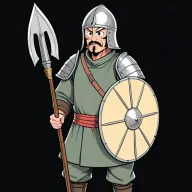
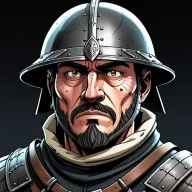
Version 0.1314.0 (portrait du milicien en buste, comme les champions)
Le milicien était dessiné en pied, lance à la main : le cadrage ouvre
désormais le prompt et le sujet ne cite plus d'arme. Trois candidats tirés
(option --seed), graine 0 retenue.

diff --git a/CLAUDE.md b/CLAUDE.md
@@ -1475,7 +1475,7 @@ Décisions prises en Phase 0, contraintes par le poste. À respecter dans les ph
   - **La ligne est masquée quand elle répète le nom**, plutôt que supprimée : un aventurier **legacy** y lit toujours sa classe, et c'est la seule identité qu'il ait. Vérifié au banc — champion : « Orsène le Baumier | Commun » ; legacy : « Léa | Commun | Guerrier ».
   - ⚠ **LE FIXTURE DU HARNAIS N'EST PAS REPRÉSENTATIF** : il nomme son champion « Orsène » quand le champion s'appelle « Orsène le Baumier », donc les deux diffèrent et le doublon ne s'y voit pas. En production `grantChampion` pose `name: champ.name` — ils sont toujours égaux. Un banc avec le vrai nom a servi à le vérifier, puis a été supprimé.
   - **🖼 LA TUILE DE SÉLECTION D'ESCORTE PREND LE PORTRAIT** : c'était le dernier écran où un champion restait un emoji (le tirage, la Guilde et le Codex l'affichaient déjà). Repli inchangé pour un legacy, qui n'en a pas.
-- **🔮🏆🛡 UNE ILLUSTRATION PAR POUVOIR DE RELIQUE ET DE TROPHÉE, ET LE PORTRAIT DU MILICIEN (v0.1305 ; demandé par l'utilisateur : « un par type de relique et de trophée », puis « aussi le milicien »)**. Le TYPE d'une relique ou d'un trophée est son pouvoir (`Item.power`) : **12 reliques + 8 trophées**, `src/data/powerArt.ts` (`RELIC_ART`/`TROPHY_ART`, `Record<…Id, string>` donc exhaustif par construction ; `powerArt(slot, power)` lit la table de SON emplacement — une relique ne prend jamais l'image d'un trophée). Affichées dans la tuile d'objet (`ItemIcon`, repli sur l'icône MDI si l'image ne charge pas) : le LISERÉ garde la couleur du rang, l'image dit le pouvoir. Le **milicien** (anonyme, une seule image) : `src/data/militiaArt.ts` + `MilitiaPortrait.vue` (repli 🛡), sur la ligne des disponibilités, le panneau des voyages et la garnison d'un point ; boutons et messages gardent l'emoji.
+- **🔮🏆🛡 UNE ILLUSTRATION PAR POUVOIR DE RELIQUE ET DE TROPHÉE, ET LE PORTRAIT DU MILICIEN (v0.1305 ; demandé par l'utilisateur : « un par type de relique et de trophée », puis « aussi le milicien »)**. Le TYPE d'une relique ou d'un trophée est son pouvoir (`Item.power`) : **12 reliques + 8 trophées**, `src/data/powerArt.ts` (`RELIC_ART`/`TROPHY_ART`, `Record<…Id, string>` donc exhaustif par construction ; `powerArt(slot, power)` lit la table de SON emplacement — une relique ne prend jamais l'image d'un trophée). Affichées dans la tuile d'objet (`ItemIcon`, repli sur l'icône MDI si l'image ne charge pas) : le LISERÉ garde la couleur du rang, l'image dit le pouvoir. Le **milicien** (anonyme, une seule image, **en buste serré comme les champions** depuis v0.1314.0 — en pied au premier jet, la lance tenue appelait le corps entier ; le cadrage ouvre désormais le prompt et le sujet ne cite plus d’arme) : `src/data/militiaArt.ts` + `MilitiaPortrait.vue` (repli 🛡), sur la ligne des disponibilités, le panneau des voyages et la garnison d'un point ; boutons et messages gardent l'emoji.
   - **Génération** : `node scripts/fetch-power-art.mjs --horde [--parallel=1] [--only=…]` → `public/powers/` et `public/militia/` (WebP 192 px, **~5 Ko pièce, 156 Ko au total**). Client partagé `scripts/lib/pollinations.mjs` (Pollinations à clé + repli **Stable Horde**). ⚠ La dotation gratuite Pollinations est à zéro depuis le 21/09 : tout a été fait sur Stable Horde (Juggernaut XL). ⚠ **FOND SOMBRE, PAS DE DÉTOURAGE** : Horde ignore le fond blanc demandé (dégradés gris/violets), le détourage échouait — même format que les pièces de champion. ⚠ Horde coupe souvent : le téléchargement et chaque requête ont un délai de garde et des nouveaux essais (sans eux, une coupure arrêtait le lot, ou le bloquait 8 h). `fetch-monster-art.mjs` garde sa propre copie du client (avec détourage).
 - **🐉 LES ENNEMIS ONT DES ILLUSTRATIONS EN PIED (v0.1006 ; demandé par l'utilisateur : « vu qu'on a des portraits et des items, je voudrais que les ennemis aient des illustrations aussi… où on les voit en entier »)**. Étape 1 sur 3 : les **48 ennemis de donjon et boss de palier** (17 monstres écrits, 12 skins procéduraux, 4 boss écrits — l'Archidémon partage l'image du monstre —, 15 boss procéduraux), **en corps entier, de profil, tournés vers la GAUCHE** (le héros est à gauche dans le rejeu). `src/data/monsterArt.ts` + `scripts/fetch-monster-art.mjs` + `public/monsters/` (48 WebP détourés, 320 px, **~20 Ko pièce, 889 Ko au total**).
   - ⚠ **INDEXÉE PAR NOM, PAS PAR ID** : un monstre procédural change d'id à chaque niveau (`proc_mon_25_weak`) mais garde un nom tiré d'un pool de douze, et un combat rejoué (`StageFight`) ne porte que `name`/`emoji`. Un test exige que chaque nom désigne un vrai monstre ou boss, que chaque ennemi soit illustré, que chaque fichier existe, et qu'aucune image ne soit partagée.
